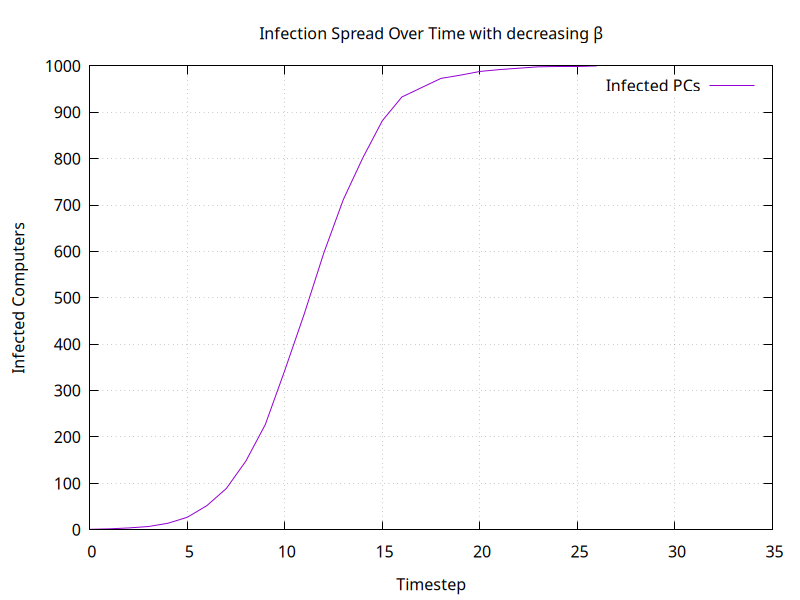
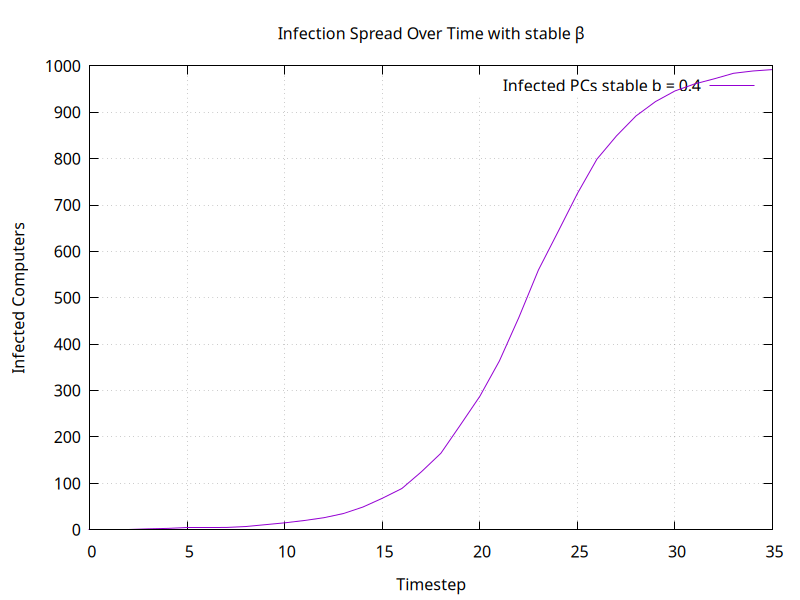
spank

diff --git a/lab/02/worms-2024.c b/lab/02/worms-2024.c
@@ -1,0 +1,43 @@
+#include <stdio.h>
+#include<stdlib.h>
+#include <time.h>
+
+#define INFECTED 1
+#define HEALTHY 0
+#define N 1000
+
+int main() {
+  
+  srand(time(NULL));
+  
+  FILE * fp;
+  fp = fopen("results.csv", "w");
+  
+    
+  int nodes[N] = {HEALTHY};
+  
+  nodes[rand() % N] = INFECTED;
+  
+  int totalinfected = 1;
+  int currentinfected = 1;
+  int timestep = 0;
+  int infected = 0;
+  
+  
+  while (totalinfected < N) {
+    timestep++;
+    currentinfected = totalinfected;
+    for ( infected = 1;infected <= currentinfected; infected++) {
+      int node = rand() % N;
+        if (nodes[node] == HEALTHY) {
+          nodes[node] = INFECTED;
+          totalinfected++;
+      }
+    }
+  
+   fprintf(fp, "%d; %d \n", timestep, totalinfected);
+  }
+  fclose(fp);
+  printf("Done\n");
+  return 0;
+}

diff --git a/lab/02/lab02bstable.c b/lab/02/lab02bstable.c
@@ -14,7 +14,7 @@ int main() {
     Computer computers[NUM_COMPUTERS + 1];
     srand(time(NULL));
 
-    FILE *fp = fopen("lab02b.csv", "w");
+    FILE *fp = fopen("lab02bstable0.4.csv", "w");
     if (fp == NULL) {
         perror("Unable to open file");
         return 1;
@@ -35,7 +35,7 @@ int main() {
     while (infected < NUM_COMPUTERS) {
         timestep++;
         int infectedNew = 0;
-        double beta = 1.0 - (0.03 * timestep); //β decreases linearly over time
+        double beta = 0.4; 
 
         for (int i = 0; i < infected; i++) {
             if ((double)rand() / RAND_MAX < beta) { 
